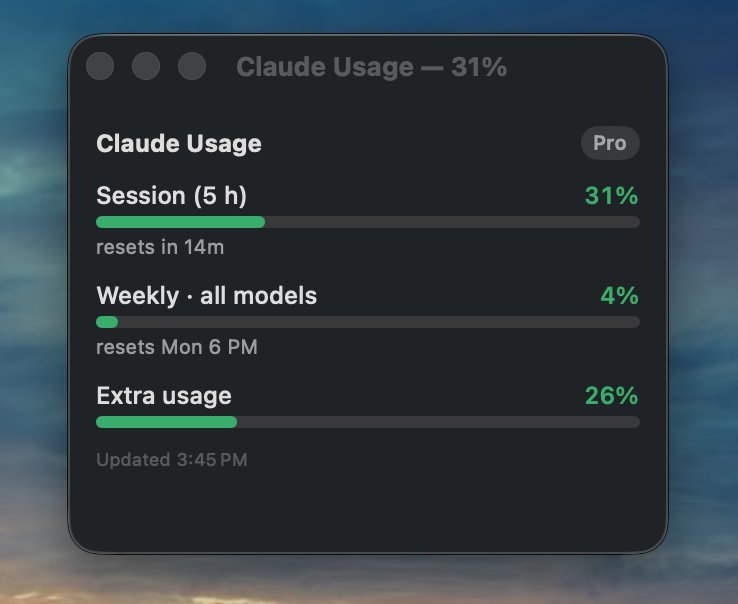
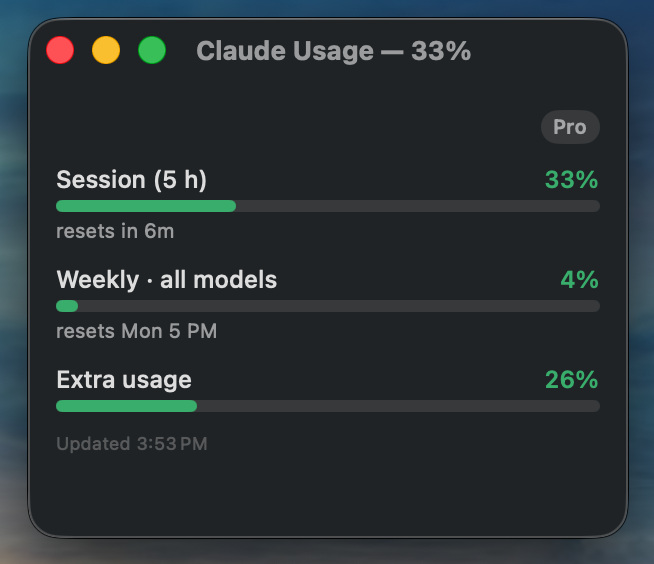
Add release packaging and expand install/build docs
- build.sh now compiles Shared/ too (it was broken after the widget
  refactor moved the model there) and takes --package to produce a
  distributable zip via ditto.
- Move the subscription badge to the footer when the title is hidden;
  without a title to balance it, it was stranded in an empty row.
- Document both install paths, and state plainly why the download has no
  widget and isn't Developer ID signed: both need a paid Apple account.
- Add build troubleshooting for the three failures hit while setting the
  widget up.

diff --git a/Sources/Views.swift b/Sources/Views.swift
@@ -40,20 +40,26 @@ struct UsagePanelView: View {
     /// The window puts the name in its title bar, so it hides this one.
     var showsTitle: Bool = true
 
+    @ViewBuilder private var subscriptionBadge: some View {
+        if let sub = model.subscription, !sub.isEmpty {
+            Text(sub.capitalized)
+                .font(.system(size: 10, weight: .semibold))
+                .padding(.horizontal, 6).padding(.vertical, 2)
+                .background(Capsule().fill(Color.primary.opacity(0.12)))
+                .foregroundStyle(.secondary)
+        }
+    }
+
     var body: some View {
         VStack(alignment: .leading, spacing: 10) {
-            HStack {
-                if showsTitle {
+            // Without the title there's nothing to balance the badge against, so
+            // the whole row is dropped and the badge moves to the footer.
+            if showsTitle {
+                HStack {
                     Text("Claude Usage")
                         .font(.system(size: 12, weight: .bold))
-                }
-                Spacer()
-                if let sub = model.subscription, !sub.isEmpty {
-                    Text(sub.capitalized)
-                        .font(.system(size: 10, weight: .semibold))
-                        .padding(.horizontal, 6).padding(.vertical, 2)
-                        .background(Capsule().fill(Color.primary.opacity(0.12)))
-                        .foregroundStyle(.secondary)
+                    Spacer()
+                    subscriptionBadge
                 }
             }
             if model.limits.isEmpty && model.errorMessage == nil {
@@ -70,10 +76,16 @@ struct UsagePanelView: View {
                     .foregroundStyle(.orange)
                     .fixedSize(horizontal: false, vertical: true)
             }
-            if let updated = model.lastUpdated {
-                Text("Updated \(updated.formatted(date: .omitted, time: .shortened))")
-                    .font(.system(size: 9))
-                    .foregroundStyle(.tertiary)
+            HStack(alignment: .center) {
+                if let updated = model.lastUpdated {
+                    Text("Updated \(updated.formatted(date: .omitted, time: .shortened))")
+                        .font(.system(size: 9))
+                        .foregroundStyle(.tertiary)
+                }
+                if !showsTitle {
+                    Spacer()
+                    subscriptionBadge
+                }
             }
         }
         .padding(compact ? 12 : 14)

diff --git a/README.md b/README.md
@@ -93,10 +93,37 @@ The Keychain's `expiresAt` is a Unix timestamp — most tooling renders it in
 **local** time. Print both zones when comparing against expiry, or you'll chase
 failures that haven't happened yet.
 
-## First launch
+## Install
+
+### Download (menu bar + window, no widget)
+
+Grab `ClaudeUsage-menubar.zip` from the
+[latest release](https://github.com/jpuritz/ClaudeUsageBar/releases/latest),
+unzip, and drag **Claude Usage.app** to `/Applications`.
+
+It's **ad-hoc signed**, so macOS quarantines it on first open. Clear that once:
+
+```sh
+xattr -dr com.apple.quarantine "/Applications/Claude Usage.app"
+```
+
+(Or open it via right-click ▸ Open, then System Settings ▸ Privacy & Security ▸
+*Open Anyway*.)
+
+**Why the download has no widget, and why it isn't properly signed:** shipping
+the WidgetKit widget requires an App Group entitlement, which requires a
+provisioning profile from a paid Apple Developer account ($99/yr) — a free
+Personal Team certificate is development-only and won't launch on anyone else's
+Mac. Distributing without Gatekeeper warnings needs a Developer ID certificate
+from that same paid account. Neither is something this project has, so: the
+download is the menu-bar build, and **the widget means building from source**
+(free, but needs Xcode). See [Building](#building).
+
+### First launch
 
 macOS will ask: *"ClaudeUsage wants to use your confidential information stored
-in 'Claude Code-credentials'"* — click **Always Allow**.
+in 'Claude Code-credentials'"* — click **Always Allow**. The app reads that
+token to call the usage endpoint; denying it leaves the app with nothing to show.
 
 ## Menu options
 
@@ -120,28 +147,56 @@ Two build paths, depending on whether you want the WidgetKit widget.
 ### With the widget (recommended) — needs Xcode
 
 ```sh
-./build-widget.sh    # builds app + widget, installs to /Applications
+brew install xcodegen
+./build-widget.sh          # builds app + widget, installs to /Applications
 ```
 
-Requirements:
+First time only, before that script will succeed:
 
-- **Xcode** (not just Command Line Tools) and **XcodeGen** (`brew install xcodegen`).
-- **An Apple ID signed into Xcode** (Settings ▸ Accounts). A *free* Apple ID is
-  enough — no paid developer account. The first time, open `ClaudeUsage.xcodeproj`
-  and pick your Team under Signing & Capabilities for **both** targets; Xcode
-  creates the certificate then. After that the script is fully command-line.
+1. Install **Xcode** (not just Command Line Tools) and point the tools at it:
+   `sudo xcode-select -s /Applications/Xcode.app`
+2. **Xcode ▸ Settings ▸ Accounts ▸ "+" ▸ Apple ID** and sign in. A *free* Apple ID
+   works — no paid developer account.
+3. Generate and open the project, then pick your Team:
+   ```sh
+   xcodegen generate && open ClaudeUsage.xcodeproj
+   ```
+   Select the **ClaudeUsage** target ▸ Signing & Capabilities ▸ **Team**, then do
+   the same for the **ClaudeUsageWidget** target. Xcode creates your development
+   certificate at that moment.
+4. Run `./build-widget.sh`. From here on it's fully command-line — it finds your
+   team automatically.
 
-Why signing is mandatory here: the app and the widget are separate processes that
-share data through an **App Group**, and that entitlement cannot be ad-hoc signed.
+Then add the widget: right-click the desktop ▸ **Edit Widgets** ▸ search
+"Claude Usage" ▸ drag out the size you want.
+
+**Why the Apple ID is required:** the app and widget are separate processes that
+share data through an **App Group**, and that entitlement can't be ad-hoc signed.
+
+**Troubleshooting**
+
+- *"has entitlements that require signing with a development certificate"* — no
+  Team selected yet; do step 3.
+- *"invalid or unsupported format for signature"* — stale build artifacts. Run
+  `rm -rf build/dd` and rebuild.
+- *Widget doesn't appear in the gallery* — it's registered from the installed
+  copy, so the app must be in `/Applications`. Confirm with:
+  `pluginkit -mv -p com.apple.widgetkit-extension | grep claude`
 
 The Xcode project is generated from [`project.yml`](project.yml) by XcodeGen, so
 edit that rather than the `.xcodeproj` (which is gitignored).
 
 ### Without the widget — Command Line Tools only
 
+No Xcode, no Apple ID. Menu bar and usage window work fully; there's just no
+widget.
+
 ```sh
-./build.sh    # ad-hoc signed, installs to ~/Applications, no widget
+./build.sh              # ad-hoc signed, installs to ~/Applications
+./build.sh --package    # …and also produces build/ClaudeUsage-menubar.zip
 ```
+
+This is what the published release contains.
 
 ## Architecture
 